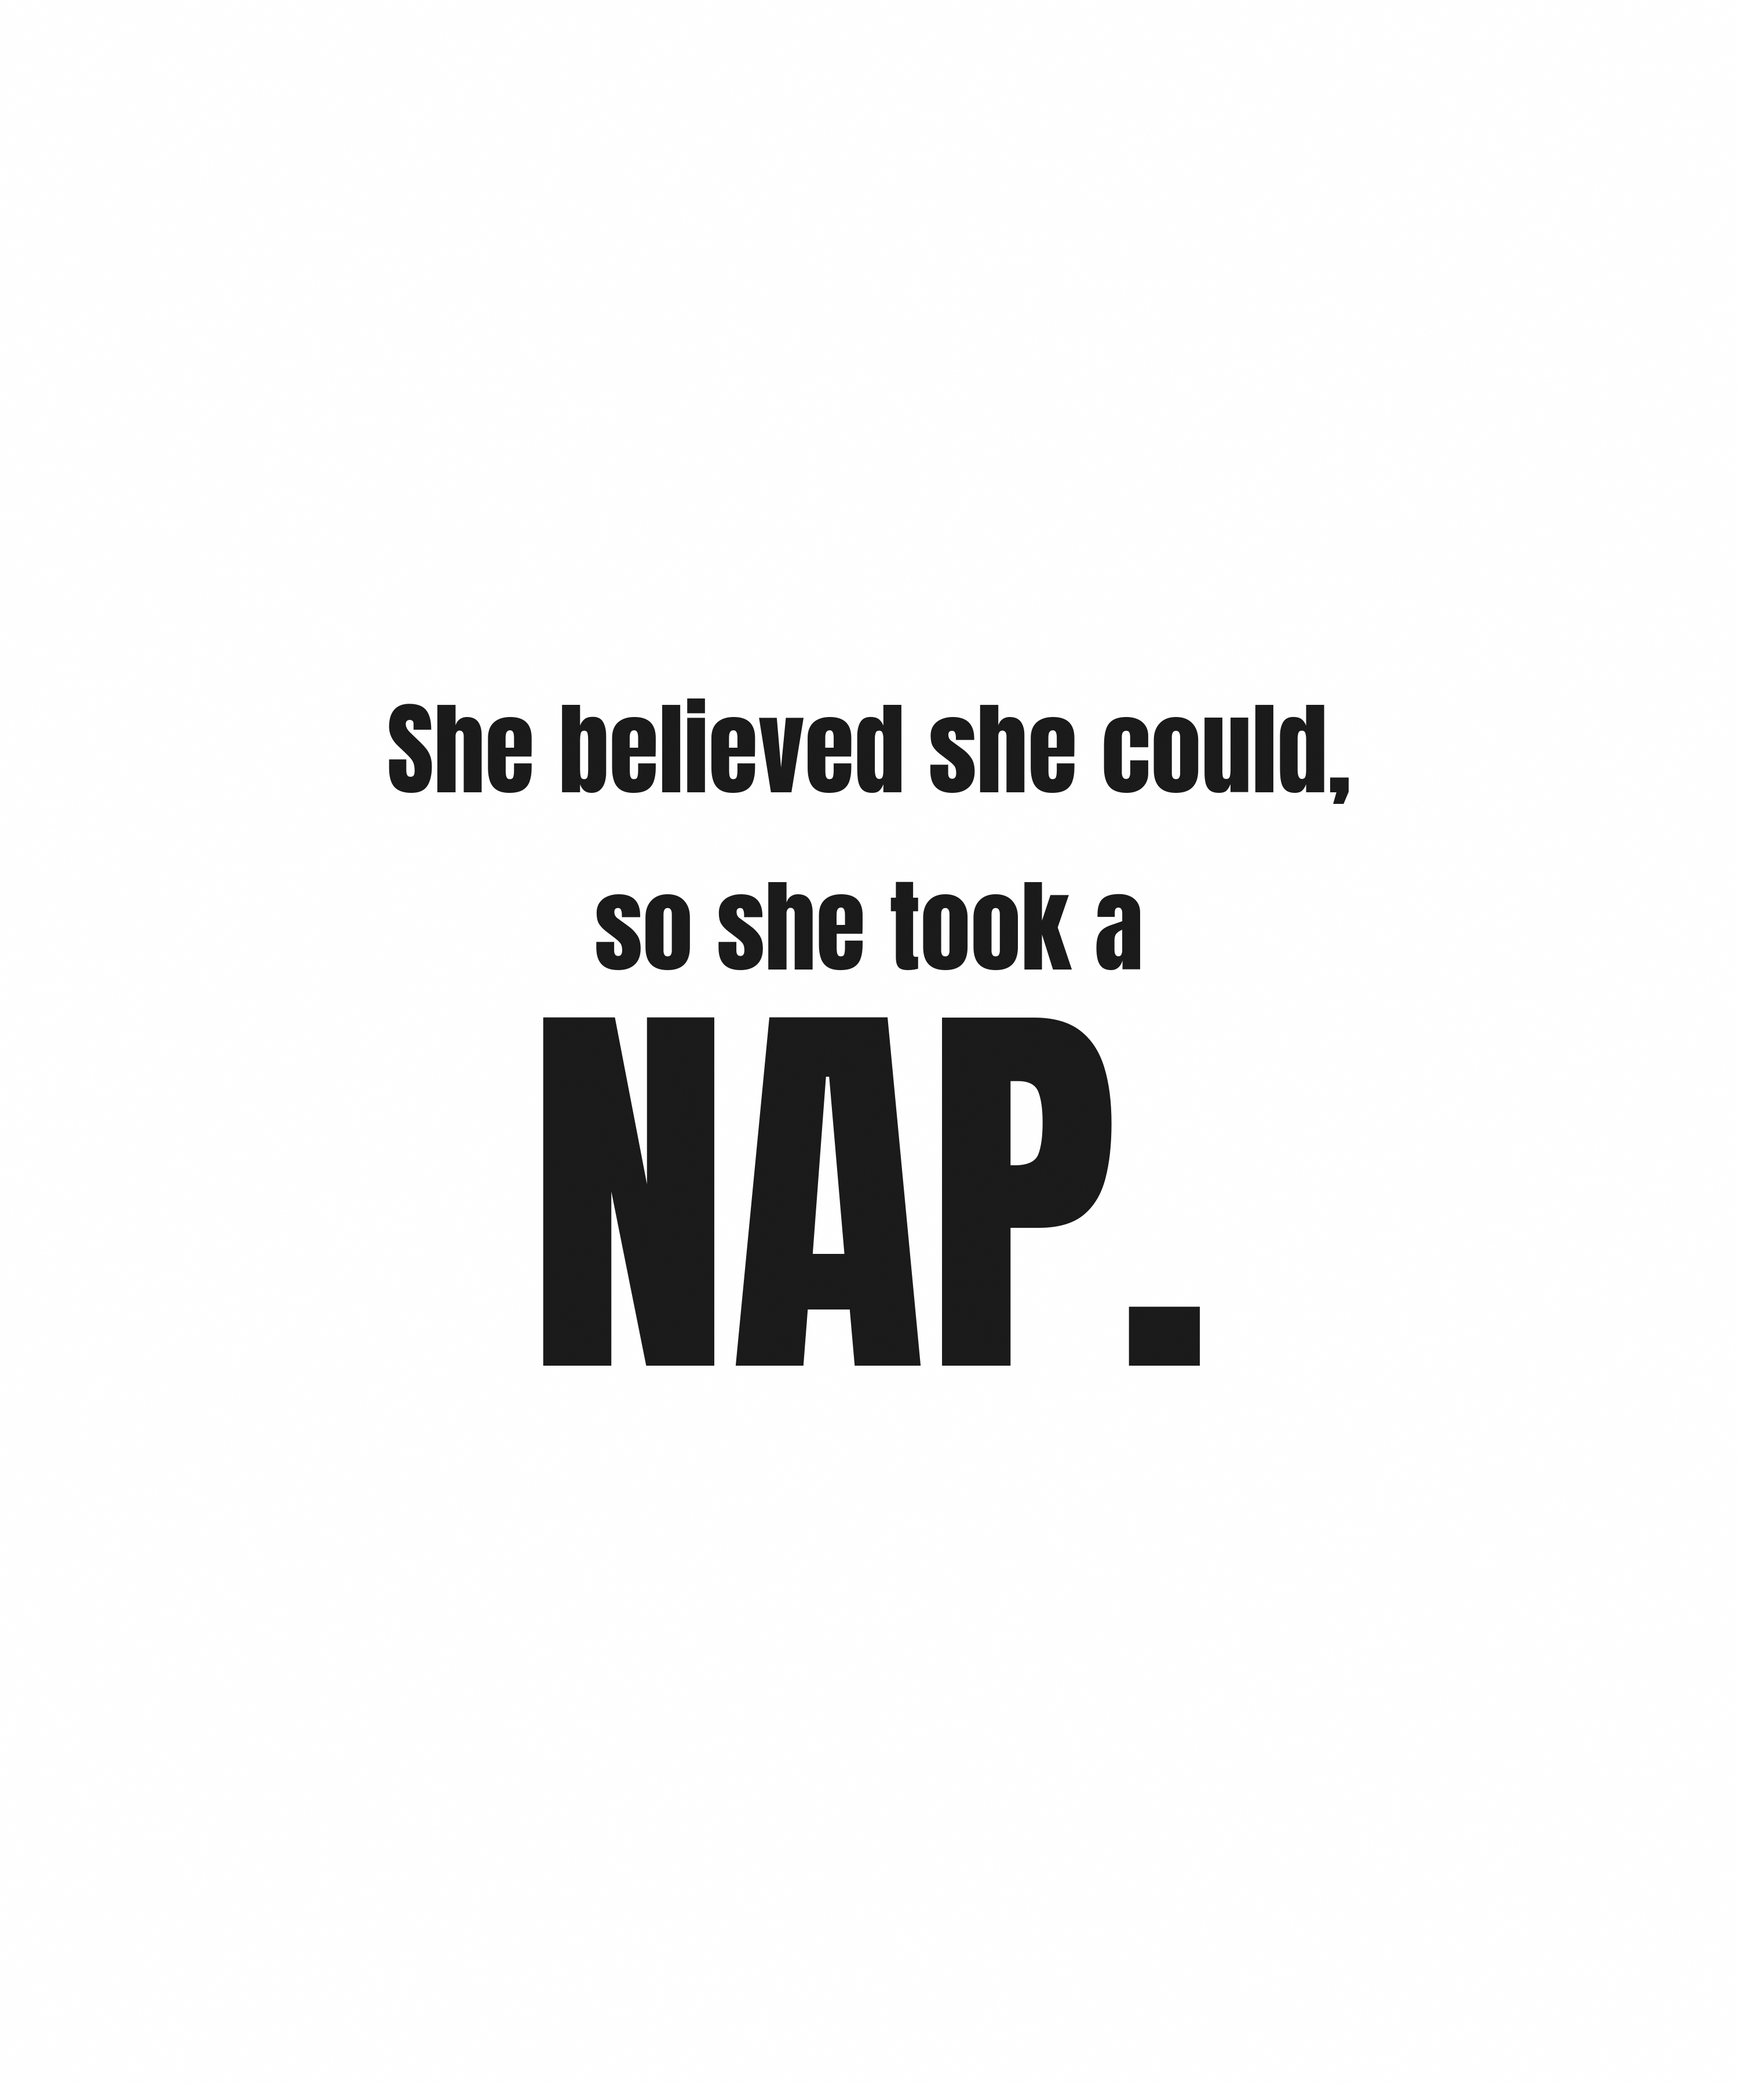
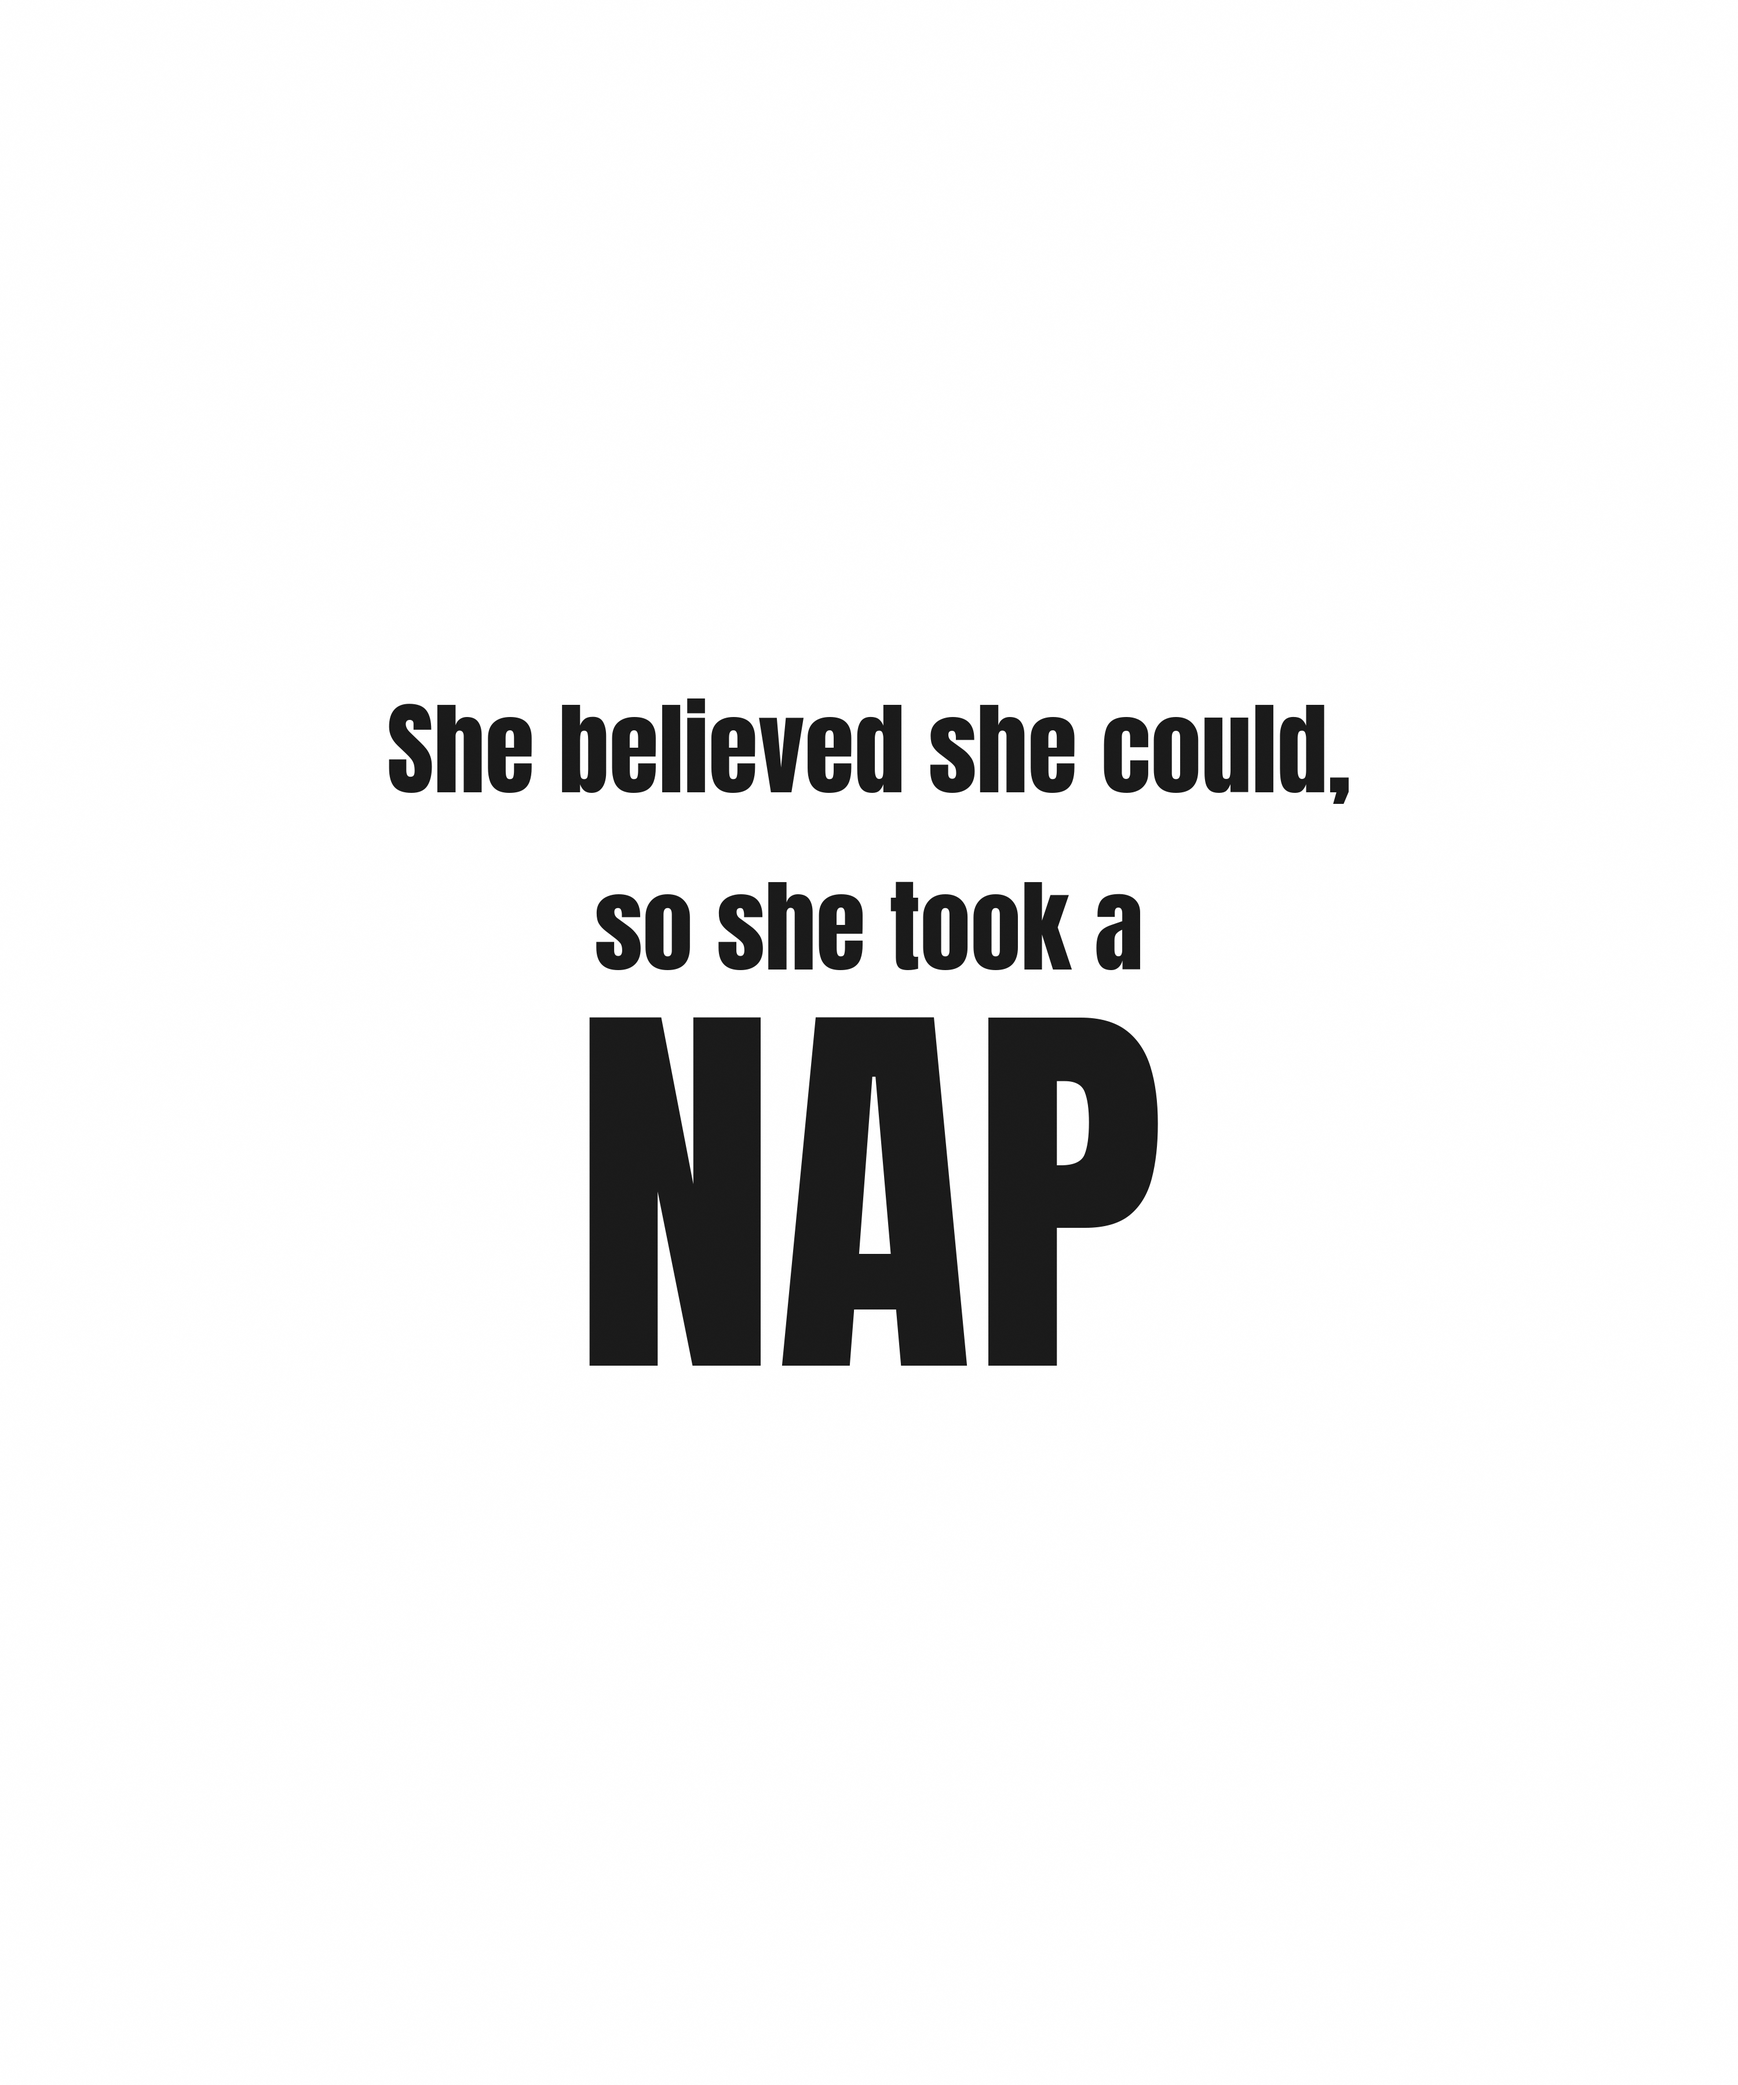
fix(designs): no periods on any shirt + future-proof + review page
Per oren 2026-06-21: DUBIS back prints must never carry a period.

- generate-designs.js: new stripPeriods() applied at the render chokepoint in
  generateBack() — every product (hardcoded, DB-fetched, or future AI slogan)
  now prints period-free regardless of source data. This also makes the
  original "stray floating dot" bug structurally impossible.
- DB: stripped periods from typography_small/big/after for all 10 active
  products that had them (1,4,8,11,18,30,31,32,34,38). Commas/?/! kept.
- Regenerated all 20 affected back_design PNGs (white + dark).
- agents/index.ts: stripSloganDots() applied to AI-generated typography at both
  product-insert sites (generate-slogan + weekly auto-creator) so new products
  store period-free data. (Needs edge-function redeploy to take effect on live
  generation; the print is already guaranteed period-free by generate-designs.)
- review/no-periods.html: RTL Hebrew proof page rendering all 10 corrected back
  prints on light + dark garment swatches, for visual verification.

Claude-Session: https://claude.ai/code/session_018TqsqbVaFt2f9WQ44aTe5b

Changed region(s): [[0.31, 0.4667, 0.682, 0.6533], [0.651, 0.6222, 0.713, 0.6533]]

diff --git a/review/no-periods.html b/review/no-periods.html
@@ -1,0 +1,107 @@
+<!DOCTYPE html>
+<html lang="he" dir="rtl">
+<head>
+<meta charset="UTF-8">
+<meta name="viewport" content="width=device-width, initial-scale=1.0">
+<meta name="robots" content="noindex,nofollow">
+<title>DUBIS — מוצרים מתוקנים (ללא נקודות)</title>
+<style>
+  :root{ --charcoal:#2C2C2C; --honey:#C17E3A; --cream:#F5F0E8; }
+  *{ box-sizing:border-box; }
+  body{
+    margin:0; font-family:'Segoe UI',Arial,sans-serif; background:#1a1a1a;
+    color:var(--cream); direction:rtl; text-align:right; line-height:1.5;
+  }
+  header{
+    padding:32px 24px 20px; background:linear-gradient(180deg,#222,#1a1a1a);
+    border-bottom:3px solid var(--honey);
+  }
+  header h1{ margin:0 0 8px; font-size:26px; }
+  header p{ margin:4px 0; color:#bbb; font-size:15px; }
+  .ver{ color:var(--honey); font-weight:bold; }
+  .legend{
+    max-width:1100px; margin:18px auto 0; padding:0 24px; color:#ccc; font-size:14px;
+  }
+  .grid{
+    max-width:1100px; margin:24px auto 60px; padding:0 24px;
+    display:grid; grid-template-columns:1fr; gap:28px;
+  }
+  .card{
+    background:#262626; border:1px solid #3a3a3a; border-radius:14px; overflow:hidden;
+  }
+  .card .meta{ padding:16px 20px; border-bottom:1px solid #3a3a3a; }
+  .card .meta .id{ color:var(--honey); font-weight:bold; font-size:13px; letter-spacing:.5px; }
+  .card .meta .slogan{ font-size:19px; font-weight:600; margin-top:4px; }
+  .card .meta .type{ color:#999; font-size:13px; margin-top:4px; }
+  .swatches{ display:grid; grid-template-columns:1fr 1fr; gap:0; }
+  .sw{ position:relative; aspect-ratio:5/6; display:flex; align-items:center; justify-content:center; }
+  .sw.light{ background:var(--cream); }
+  .sw.dark{ background:var(--charcoal); }
+  .sw img{ width:92%; height:92%; object-fit:contain; }
+  .sw .tag{
+    position:absolute; bottom:8px; inset-inline-start:10px; font-size:11px;
+    padding:3px 8px; border-radius:20px; background:rgba(0,0,0,.35); color:#fff;
+  }
+  .sw.light .tag{ background:rgba(0,0,0,.55); }
+  @media (max-width:560px){ .swatches{ grid-template-columns:1fr; } }
+  footer{ max-width:1100px; margin:0 auto 50px; padding:0 24px; color:#888; font-size:13px; }
+</style>
+</head>
+<body>
+<header>
+  <h1>✅ מוצרים מתוקנים — ללא נקודות על החולצה</h1>
+  <p>כל הנקודות הוסרו מהדפסות הגב. מקור הבעיה: הנקודה רונדרה כשורה נפרדת וצפה מתחת לטקסט.</p>
+  <p>גרסת עיצוב: <span class="ver">2026062101</span> · 10 מוצרים · כל צבע (כהה + בהיר)</p>
+</header>
+
+<div class="legend">
+  כל מוצר מוצג בשני רקעים: <b>בהיר</b> (קרם — טקסט כהה) ו־<b>כהה</b> (פחם — טקסט לבן),
+  בדיוק כפי שיודפס על הבד. אלה קבצי ההדפסה האמיתיים (<code>designs/back_design_*.png</code>).
+</div>
+
+<div class="grid" id="grid"></div>
+
+<footer>
+  הערה: זהו תצוגת קבצי ההדפסה המתוקנים. תמונות הקטלוג באתר (מוקאפים אמיתיים מגלאטו)
+  מתרעננות בנפרד דרך ה-pipeline לאחר מיזוג ל-main.
+</footer>
+
+<script>
+  const V = '2026062101';
+  const products = [
+    { id:1,  slogan:"I'm not fat, I'm a LIMITED edition", type:"חולצה" },
+    { id:4,  slogan:"I survived — That's enough",         type:"חולצה" },
+    { id:8,  slogan:"Born to NAP, forced to work",        type:"חולצה" },
+    { id:11, slogan:"She believed she could, so she took a NAP", type:"חולצה" },
+    { id:18, slogan:"Unfashionably COMFORTABLE",          type:"חולצה" },
+    { id:30, slogan:"Still here, somehow CONGRATS",        type:"ארוכת שרוול" },
+    { id:31, slogan:"You're prettier when you're COMFORTABLE", type:"חולצה (אשתך הזמינה)" },
+    { id:32, slogan:"Activewear for the INACTIVE",         type:"חולצה" },
+    { id:34, slogan:"Still waiting for my BREAK",          type:"ארוכת שרוול" },
+    { id:38, slogan:"Sleeves were OPTIONAL",              type:"גופייה" },
+  ];
+  const grid = document.getElementById('grid');
+  for (const p of products) {
+    const card = document.createElement('div');
+    card.className = 'card';
+    card.innerHTML = `
+      <div class="meta">
+        <div class="id">מוצר #${p.id}</div>
+        <div class="slogan">${p.slogan}</div>
+        <div class="type">${p.type}</div>
+      </div>
+      <div class="swatches">
+        <div class="sw light">
+          <img loading="lazy" src="/designs/back_design_${p.id}_dark.png?v=${V}" alt="הדפסה כהה על בד בהיר">
+          <span class="tag">בד בהיר · טקסט כהה</span>
+        </div>
+        <div class="sw dark">
+          <img loading="lazy" src="/designs/back_design_${p.id}_white.png?v=${V}" alt="הדפסה לבנה על בד כהה">
+          <span class="tag">בד כהה · טקסט לבן</span>
+        </div>
+      </div>`;
+    grid.appendChild(card);
+  }
+</script>
+</body>
+</html>

diff --git a/supabase/functions/agents/index.ts b/supabase/functions/agents/index.ts
@@ -32,6 +32,19 @@ function json(data: unknown, status = 200): Response {
   });
 }
 
+// ── No periods on the shirt (oren 2026-06-21) ──────────────────────────────
+// DUBIS back prints never carry a period. Strip dots from any AI-generated
+// typography before it lands in dubis_products so the stored data matches the
+// period-free print. (The print file itself is independently guaranteed
+// period-free by stripPeriods() in scripts/generate-designs.js — this keeps the
+// DB clean too, e.g. for the admin "edit slogan" view.) Commas, ?, ! are kept.
+function stripSloganDots(s: unknown): string {
+  return String(s || '')
+    .replace(/\./g, '')
+    .replace(/[ \t]{2,}/g, ' ')
+    .trim();
+}
+
 // ── SELLABLE_TYPES — the ONE contract for "what DUBIS may create" ──────────
 // Single source of truth for BOTH product pools (admin "+ סלוגן חדש"
 // suggestions AND the weekly auto-creator). Before this contract there were two
@@ -3859,9 +3872,12 @@ Generate 3 slogan proposals. Return ONLY valid JSON array. The "colors" field MU
           description_en: s.description_en || '',
           description_he: s.description_he || '',
           colors: chosenColors,
-          typography_small: s.text_before || '',
-          typography_big: s.power_word || '',
-          typography_after: s.text_after || '',
+          // DUBIS shirts never carry a period on the print (oren 2026-06-21).
+          // Strip dots here so DB data matches the period-free render; the print
+          // itself is also guaranteed period-free by scripts/generate-designs.js.
+          typography_small: stripSloganDots(s.text_before),
+          typography_big: stripSloganDots(s.power_word),
+          typography_after: stripSloganDots(s.text_after),
           typography_layout: s.layout || 'top-bottom',
           source: 'ai-generated',
           active: false,
@@ -6353,7 +6369,7 @@ ${items.join('\n')}
     const { data: product, error: insErr } = await sb.from('dubis_products').insert({
       slogan: finalSlogan, clothing_type: dbType, category: genderKey, gender: slot.gender,
       price_usd: W_PRICE_MAP[dbType] || 28, description_en: g.description_en || '', description_he: g.description_he || '',
-      colors: slotColors, typography_small: g.text_before || '', typography_big: g.power_word || '', typography_after: g.text_after || '',
+      colors: slotColors, typography_small: stripSloganDots(g.text_before), typography_big: stripSloganDots(g.power_word), typography_after: stripSloganDots(g.text_after),
       typography_layout: g.layout || 'top-bottom', source: 'ai-generated', active: false, auto_publish: true,
     }).select('id').single();
     if (insErr || !product) return json({ error: 'insert_failed', detail: insErr?.message }, 500);

diff --git a/scripts/generate-designs.js b/scripts/generate-designs.js
@@ -103,6 +103,24 @@ function setFont(ctx, size) {
 }
 
 /**
+ * Strip ALL periods from printed slogan text (oren directive 2026-06-21).
+ * DUBIS shirts never carry a period on the back print. This is enforced at the
+ * render chokepoint so it holds for EVERY product — hardcoded, DB-fetched, or a
+ * future AI-generated slogan — regardless of what the source data contains.
+ * The original "stray floating dot" bug (lone "." in typography_after rendered
+ * as its own centered line) is also impossible once periods never reach canvas.
+ * Keeps newlines; collapses any whitespace a removed period leaves behind.
+ */
+function stripPeriods(s) {
+  return (s || '')
+    .replace(/\./g, '')
+    .replace(/[ \t]{2,}/g, ' ')
+    .replace(/ +\n/g, '\n')
+    .replace(/\n +/g, '\n')
+    .trim();
+}
+
+/**
  * Add imperceptibly subtle noise across the canvas.
  * This defeats PNG deflate compression and pushes files above 200 KB
  * without any visible effect on the design.
@@ -255,6 +273,15 @@ const GAP       = 180;  // px of clear space between adjacent cap-blocks
                         // breathe like 3-line layouts.
 
 function generateBack(product, color, outPath) {
+  // No periods on the printed shirt — sanitize every text block up front so the
+  // rest of the layout math operates on period-free strings (oren 2026-06-21).
+  product = {
+    ...product,
+    small: stripPeriods(product.small),
+    big:   stripPeriods(product.big),
+    after: stripPeriods(product.after),
+  };
+
   const canvas = createCanvas(BACK_W, BACK_H);
   const ctx    = canvas.getContext('2d');
 
